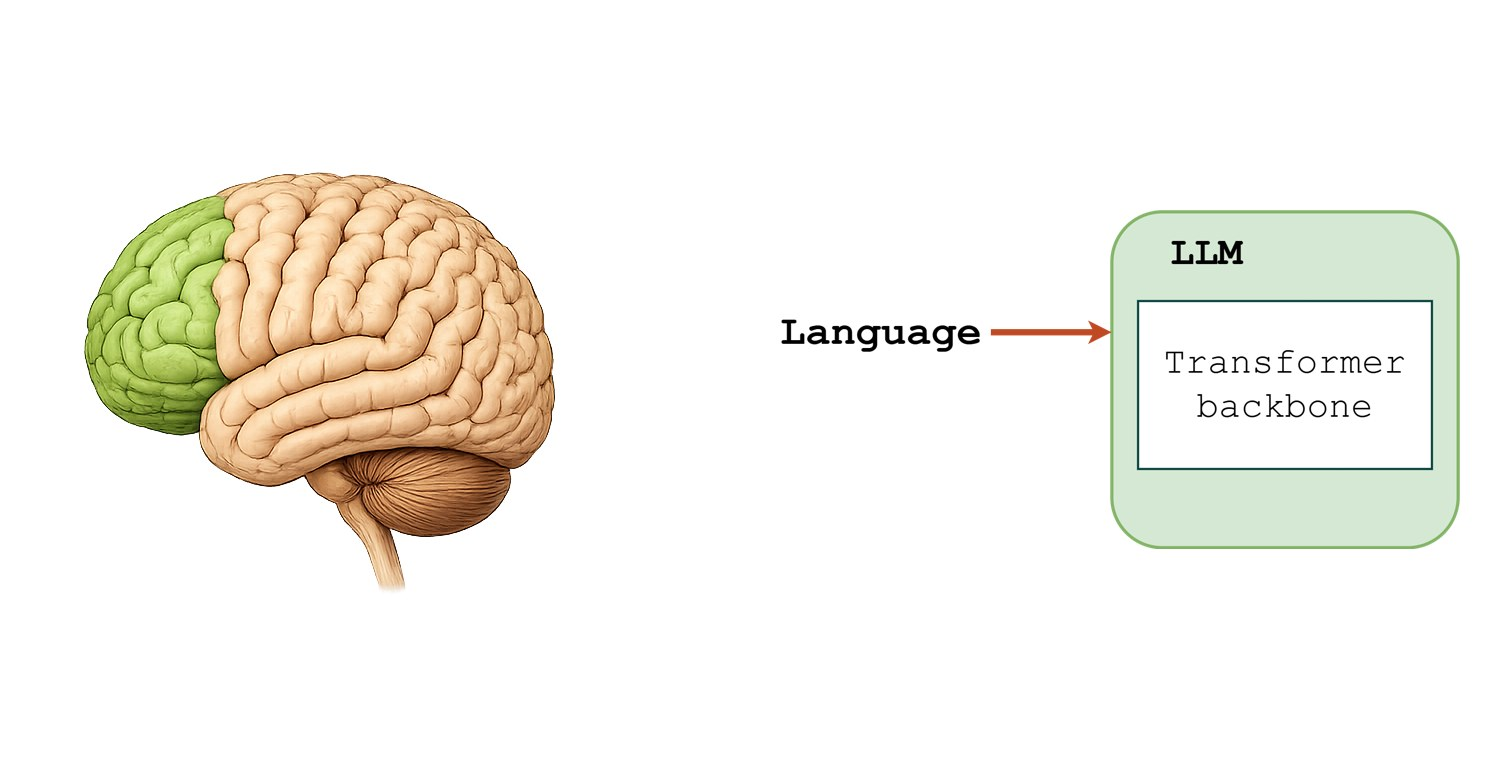
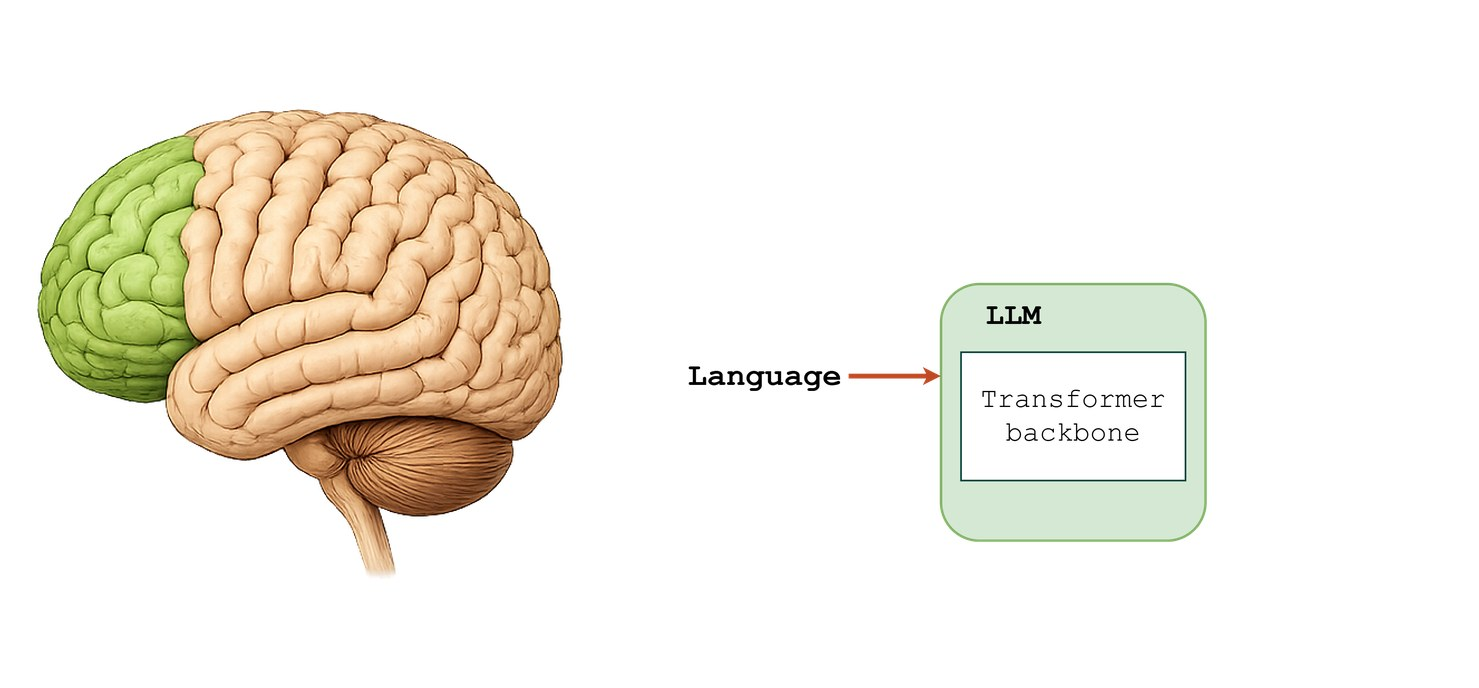
Rebuild the VLA animation in register, shrink the star-Gen figure
The three frames were composited independently, so the brain and the
architecture both jumped between steps. All three architecture images
share a pixel scale, so they are now aligned on the LLM box: it stays
fixed while VLM and VLA grow around it, which is what the diagram
actually means. Brains are aligned on their content box.

- gap between brain and diagram cut from 163px to 56px
- canvas sized from content, so nothing clips at the edges
- steps at 1.1s with a 0.38s crossfade, starting at 15% visibility
- covers the case where the figure is already on screen at load
- the star-Gen results chart is now a small centred figure

Changed region(s): [[0.0, 0.1526, 0.4043, 0.8547], [0.4665, 0.2747, 0.9953, 0.7936]]

diff --git a/index.html b/index.html
@@ -230,9 +230,9 @@ figure.portrait figcaption{max-width:var(--col)}
 
 /* ── VLA build animation ──────────────────────────────── */
 .vla-build{margin-top:calc(var(--rhythm)*1.6)}
-.vla-stage{position:relative;width:100%;aspect-ratio:1500/760}
+.vla-stage{position:relative;width:100%;aspect-ratio:1479/688}
 .vla-stage img{position:absolute;inset:0;width:100%;height:100%;object-fit:contain;
-  opacity:0;transition:opacity .55s ease;border:0}
+  opacity:0;transition:opacity .38s ease-out;border:0}
 .vla-stage img.on{opacity:1}
 .vla-steps{display:flex;gap:.5rem;justify-content:center;margin:.6rem 0 0}
 .vla-steps button{font:inherit;font-size:.82rem;font-weight:600;color:var(--muted);
@@ -672,7 +672,7 @@ footer cite{font-style:italic}
     <p>2 conclusions follow from the shape of that list. The policy treats the camera image as a fixed coordinate frame rather than inferring the geometry of the scene, so any change to the frame moves it off the mapping it learned. And the language instruction is too weak to override the visual prior, because whenever a trained object was in view the policy went to it regardless of the words.</p>
     <p>Neither finding is unique to my setup. <a href="https://arxiv.org/abs/2510.13626">LIBERO-Plus</a> reports π₀ dropping from 94.2% to 15.8% under viewpoint changes, and <a href="https://arxiv.org/abs/2510.03827">LIBERO-PRO</a> reports a fall from above 90% to 0% when object starting positions change. Every model the <a href="https://arxiv.org/abs/2503.01238">⋆-Gen authors</a> and the <a href="https://penn-pal-lab.github.io/Pi0-Experiment-in-the-Wild/">Penn PAL group</a> tested showed the same weak semantic generalisation.</p>
 
-<figure>
+<figure class="small">
       <img src="media/stargen-results.jpg" alt="Bar chart from the star-Gen paper showing task progress across generalisation axes on Bridge V2, with most axes far below the in-distribution baseline." loading="lazy">
       <figcaption><b>The same shape, on different hardware and a different model.</b> ⋆-Gen's Bridge V2 results, modified from <a href="https://arxiv.org/abs/2503.01238">Gao et al.</a> They ran more than 1,600 trials across 14 axes and found no model that held up on most of them. My 17 conditions on a UR5e reproduce the pattern at a much smaller scale.</figcaption>
     </figure>
@@ -879,14 +879,18 @@ Institute of Technology, University of Tartu.</pre>
     timer=setInterval(function(){
       if(i>=3){ clearInterval(timer); timer=null; return; }
       show(i+1);
-    },1500);
+    },1100);
   }
   if(matchMedia('(prefers-reduced-motion: reduce)').matches){ show(3); return; }
   if(!('IntersectionObserver' in window)){ run(); return; }
   var io=new IntersectionObserver(function(es){
     es.forEach(function(e){ if(e.isIntersecting){ io.unobserve(e.target); run(); } });
-  },{threshold:0.25});
+  },{threshold:0.15,rootMargin:'0px 0px -12% 0px'});
   io.observe(fig);
+  // if it is already on screen at load, the observer fires immediately;
+  // this covers a direct link to the anchor
+  var r=fig.getBoundingClientRect();
+  if(r.top < innerHeight*0.85 && r.bottom > 0){ io.unobserve(fig); run(); }
 })();
 </script>
 </body>
